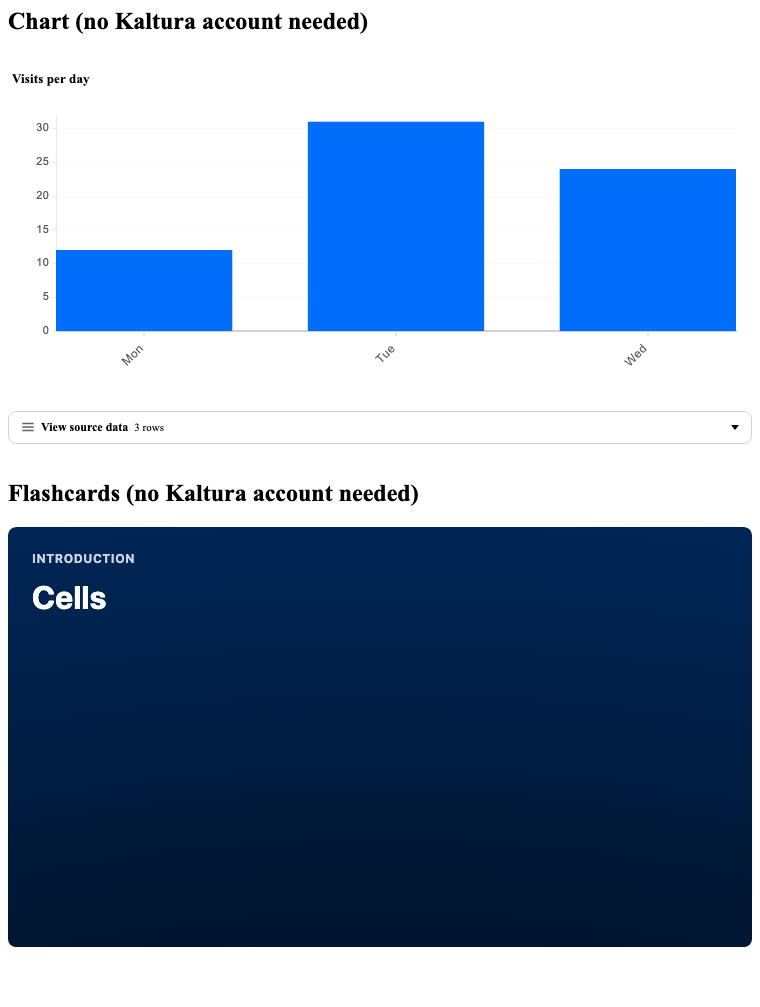
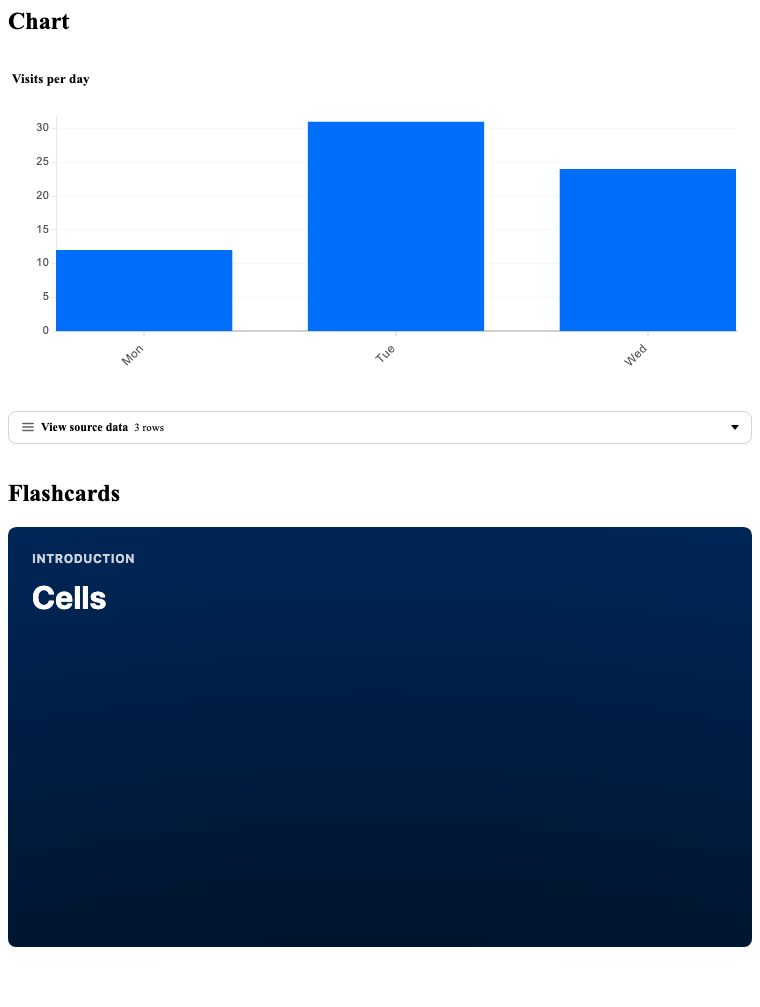
Fix the README hero and the quick-start KS example
- Drop "(no Kaltura account needed)" from the example headings and
  regenerate the hero image.
- Send the widget scope to the server in the quick-start KS provider.
- Say early that most widgets need a partner ID.
- Make the steps a list and drop the unsourced Gemini Enterprise claim.

Changed region(s): [[0.3329, 0.4618, 0.5447, 0.5233], [0.0908, 0.0, 0.4842, 0.0308], [0.1816, 0.4618, 0.3026, 0.5233]]

diff --git a/examples/plain-html/index.html b/examples/plain-html/index.html
@@ -9,10 +9,10 @@
   <body>
     <h1>Kaltura A2UI components</h1>
 
-    <h2>Chart (no Kaltura account needed)</h2>
+    <h2>Chart</h2>
     <kaltura-chart id="chart"></kaltura-chart>
 
-    <h2>Flashcards (no Kaltura account needed)</h2>
+    <h2>Flashcards</h2>
     <kaltura-flashcards id="cards"></kaltura-flashcards>
 
     <h2>Player (needs a real partner, uiconf and entry)</h2>

diff --git a/README.md b/README.md
@@ -46,9 +46,13 @@ An A2UI client renders only components it has registered ahead of time. There is
 | [React or A2UI client](#react-or-a2ui-client) | Your agent drives the page, for example a chat UI | `npm i` |
 | [Catalog JSON](#catalog-json) | Your tool reads a catalog by URL | None |
 
-Steps: 1. Render the widgets (pick a row). 2. [Connect your agent](docs/agent-guide.md). 3. [Set the host rules](#for-the-host).
+1. Render the widgets (pick a row).
+2. [Connect your agent](docs/agent-guide.md).
+3. [Set the host rules](#for-the-host).
 
-Some chat apps, such as Gemini Enterprise, cannot register a catalog, so they cannot show these widgets. Your agent should check which catalogs the client supports ([capability negotiation](docs/host-api.md#capability-negotiation)) and reply in plain text when it supports none of yours.
+Most widgets need a Kaltura partner ID, and many need a KS. The chart, and flashcards without video clips, need neither ([which widgets](#components)).
+
+Some chat apps cannot register a catalog, so they cannot show these widgets. Your agent should check which catalogs the client supports ([capability negotiation](docs/host-api.md#capability-negotiation)) and reply in plain text when it supports none of yours.
 
 ### Install
 
@@ -83,8 +87,13 @@ import { A2uiSurface, type ReactCatalogComponent } from '@a2ui/react/v0_9';
 import { MessageProcessor, type A2uiMessage } from '@a2ui/web_core/v0_9';
 
 // Your server mints the KS. Agent messages never carry it.
-setKsProvider(async (widget) => {
-  const res = await fetch(`https://your-server.example.com/kaltura-session?widget=${widget}`);
+// `scope` names the data this one widget uses. Your server checks it and grants only that.
+setKsProvider(async (widget, { version, scope }) => {
+  const res = await fetch('https://your-server.example.com/kaltura-session', {
+    method: 'POST',
+    headers: { 'content-type': 'application/json' },
+    body: JSON.stringify({ widget, version, scope }),
+  });
   return res.ok ? res.text() : undefined;
 });
 setErrorHandler((error) => console.warn('kaltura widget error:', error.code));
@@ -116,7 +125,7 @@ const surface = processor.model.getSurface('s');
 if (surface) createRoot(document.getElementById('root')!).render(createElement(A2uiSurface, { surface }));
 ```
 
-Your server mints the KS ([docs/ks-privileges.md](docs/ks-privileges.md)). Chart needs no KS, and Flashcards need one only for protected clips.
+Your server mints the KS ([docs/ks-privileges.md](docs/ks-privileges.md)). A working server-side check: [examples/ks-server/privileges.ts](examples/ks-server/privileges.ts). Chart needs no KS, and Flashcards need one only for protected clips.
 
 - The catalog id `https://kaltura.github.io/a2ui/v2/catalog.json` is a name, and the file is also served there (copy of the release asset). Pin the one from [Catalog JSON](#catalog-json). The `v1` id was the 0.3.x catalog: [docs/migration-0.4.md](docs/migration-0.4.md#catalog-v2).
 - Send `processor.getRendererCapabilities({ versions: ['v0.9'] })` to your agent as `a2uiClientCapabilities`, so it picks a catalog you registered.
